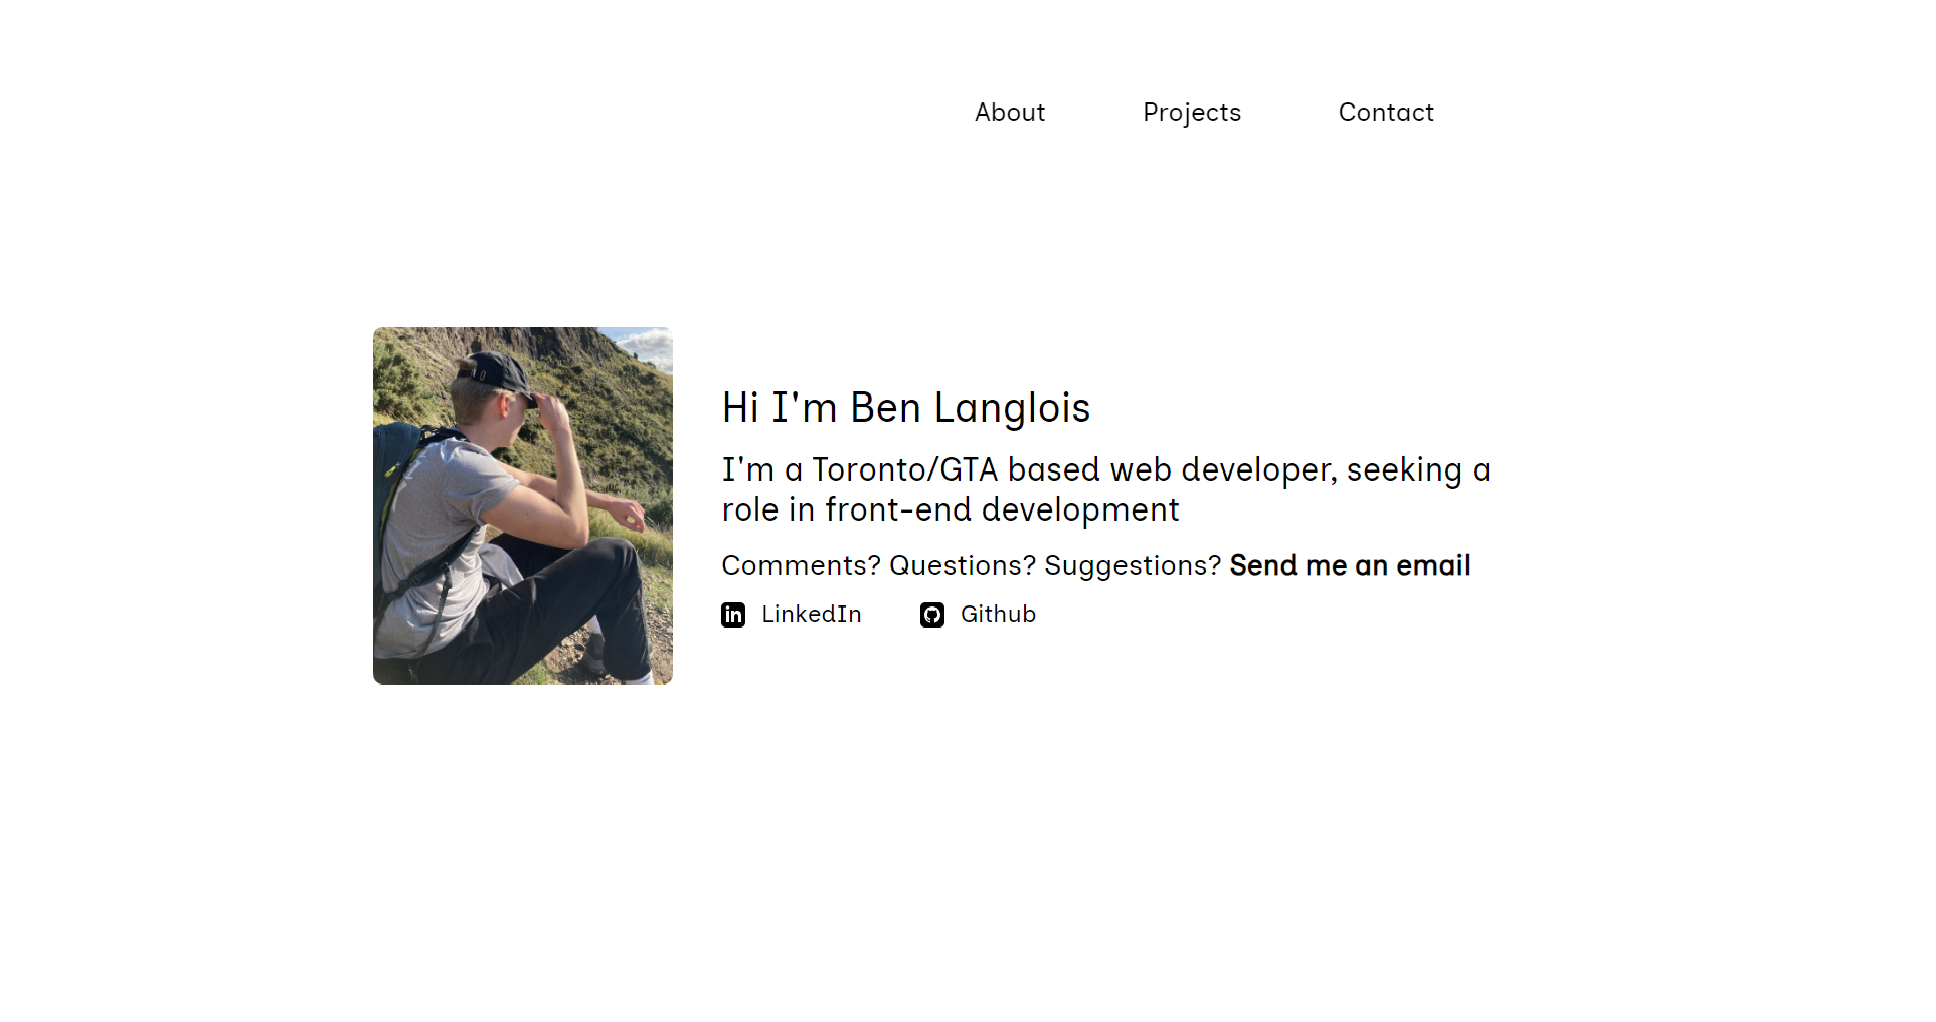
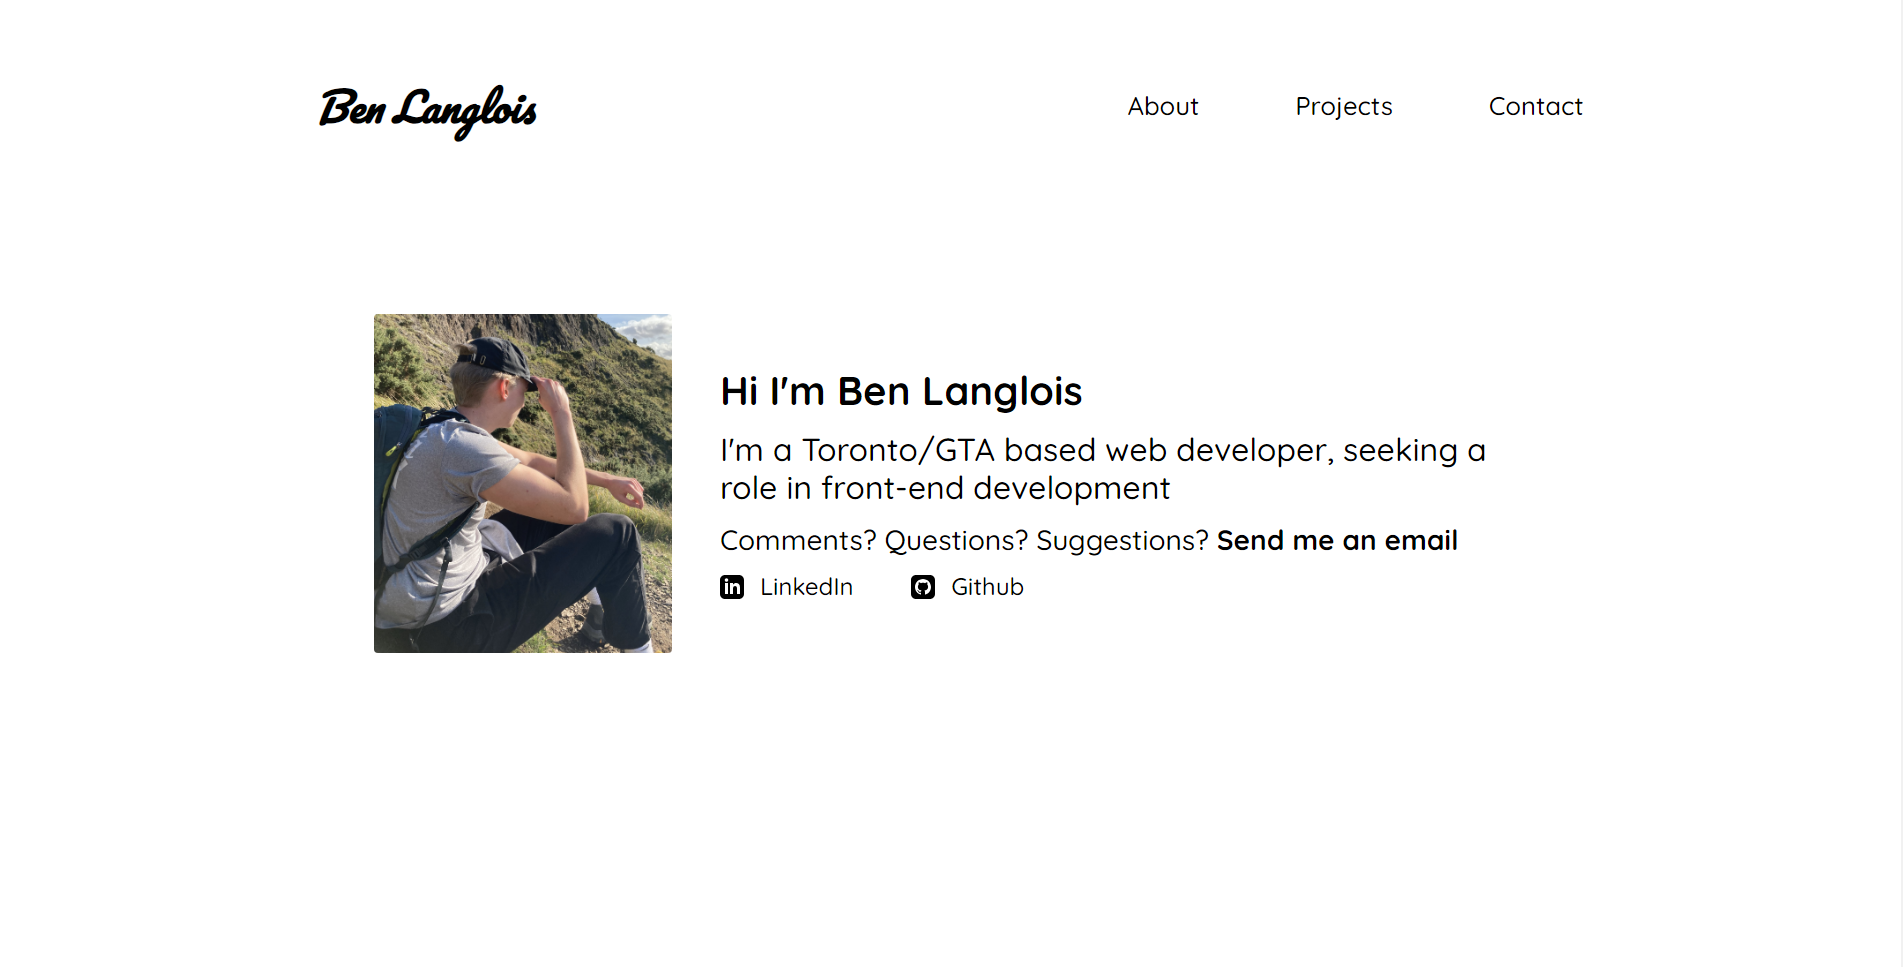
minor css, changed project card pic

diff --git a/src/styles/styles.scss b/src/styles/styles.scss
@@ -82,7 +82,7 @@ html, body {
 
             #links{
                 display: inline-flex;
-                float: right;
+                // float: right;
                 margin: 0 1rem 0 auto;
                 padding: 0;
                 height: 100%;
@@ -144,9 +144,6 @@ html, body {
                 }
             } 
         }
-
-        
-
     }
 
     #landing{
